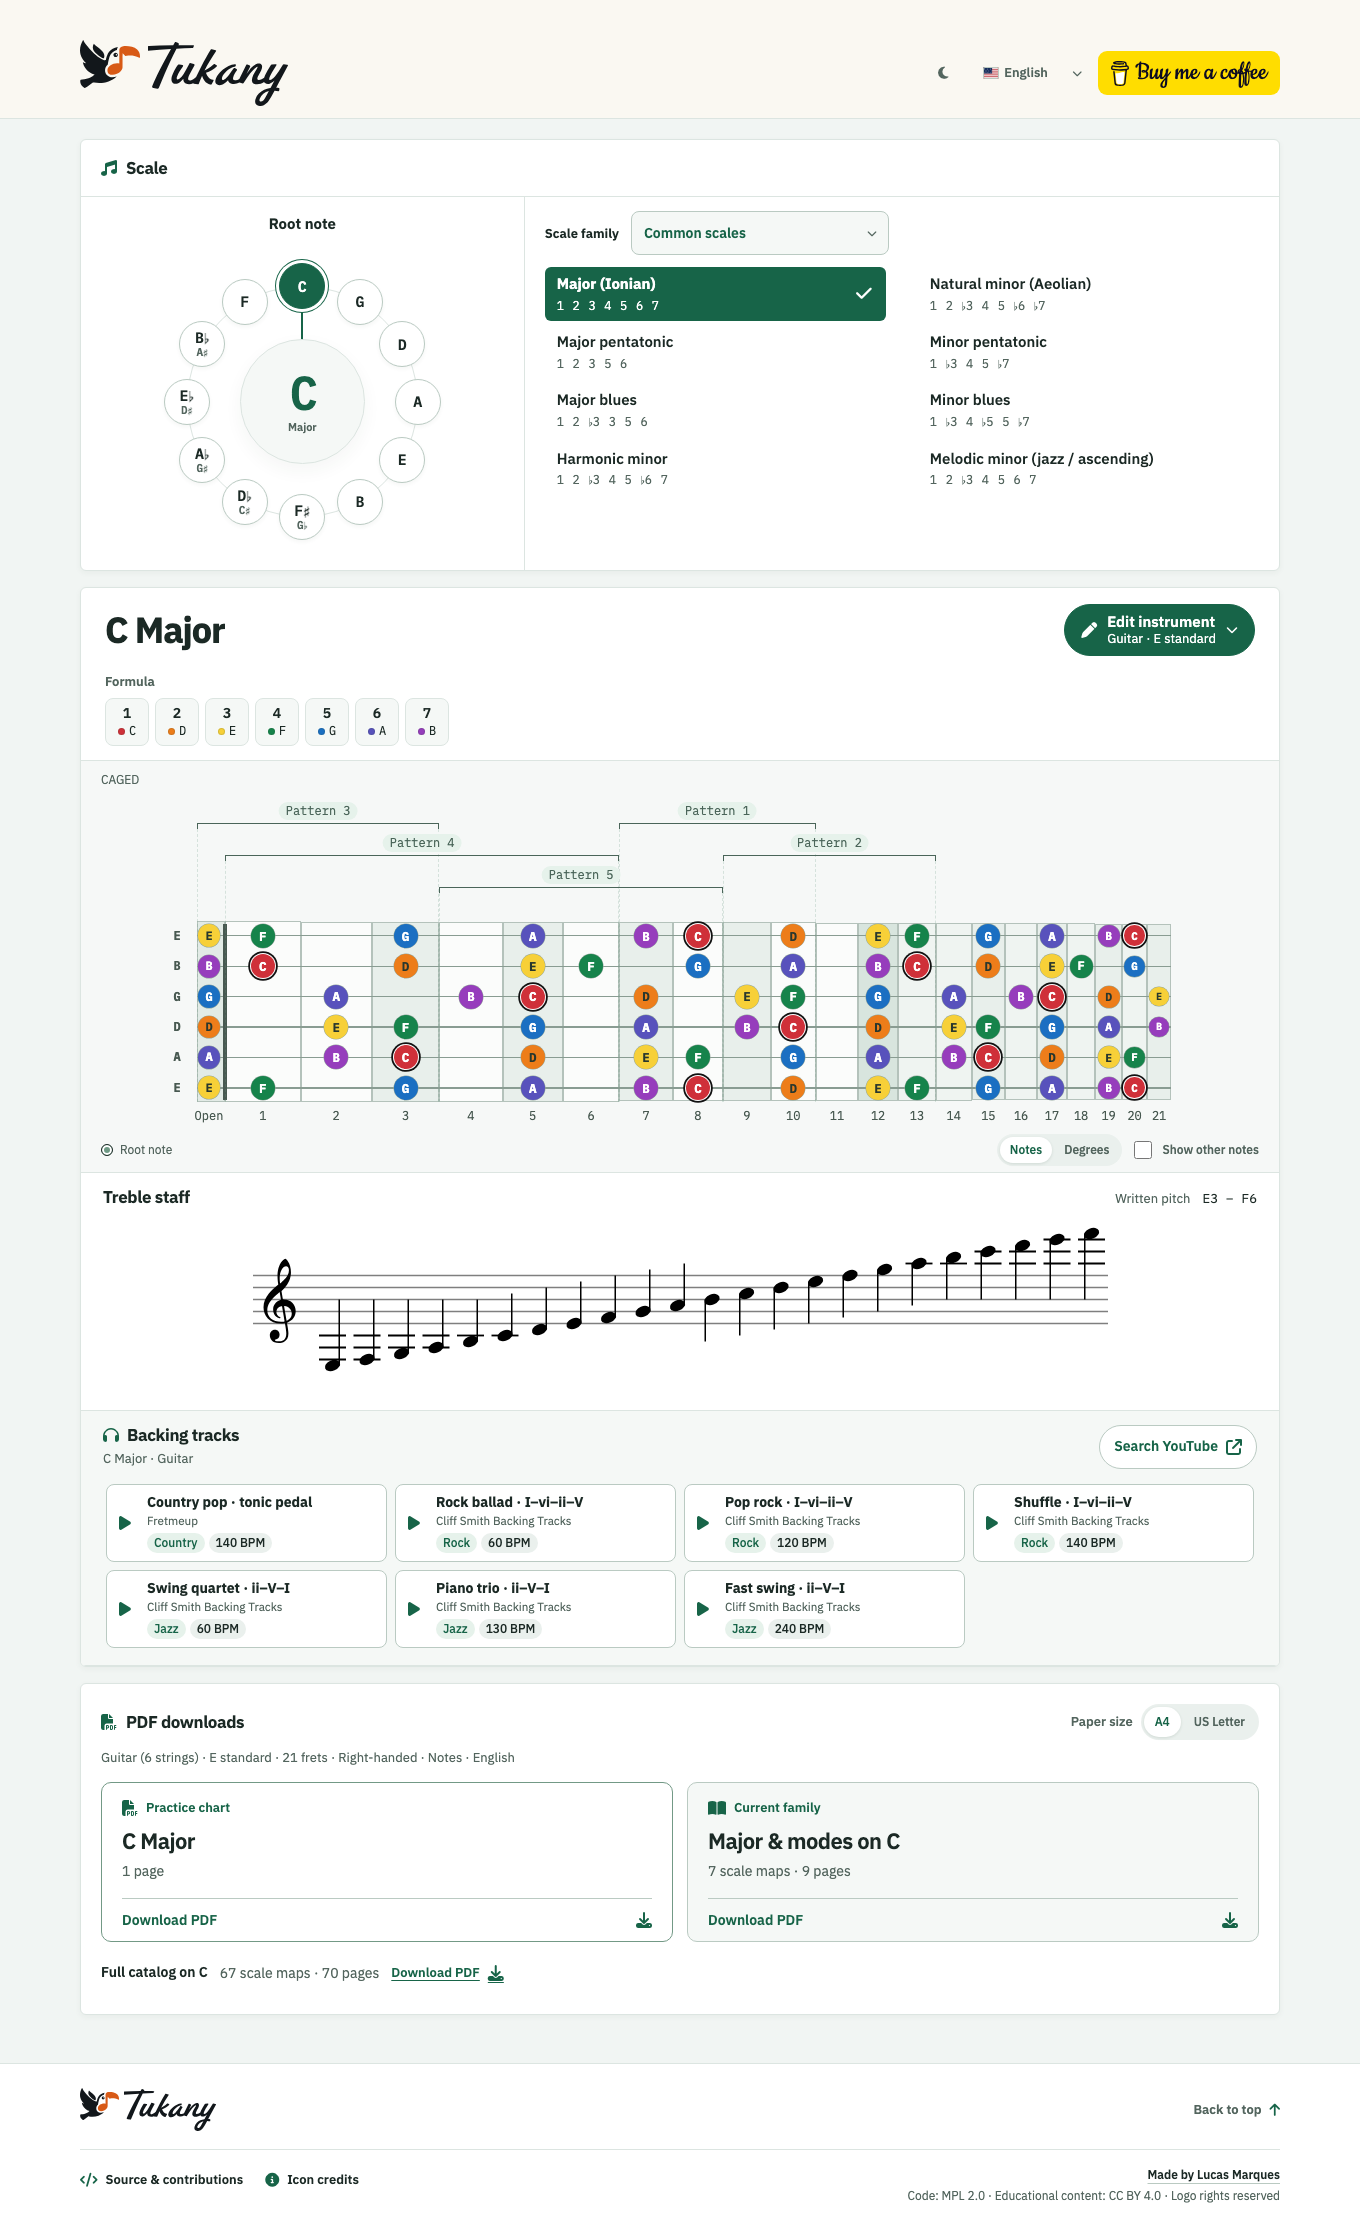
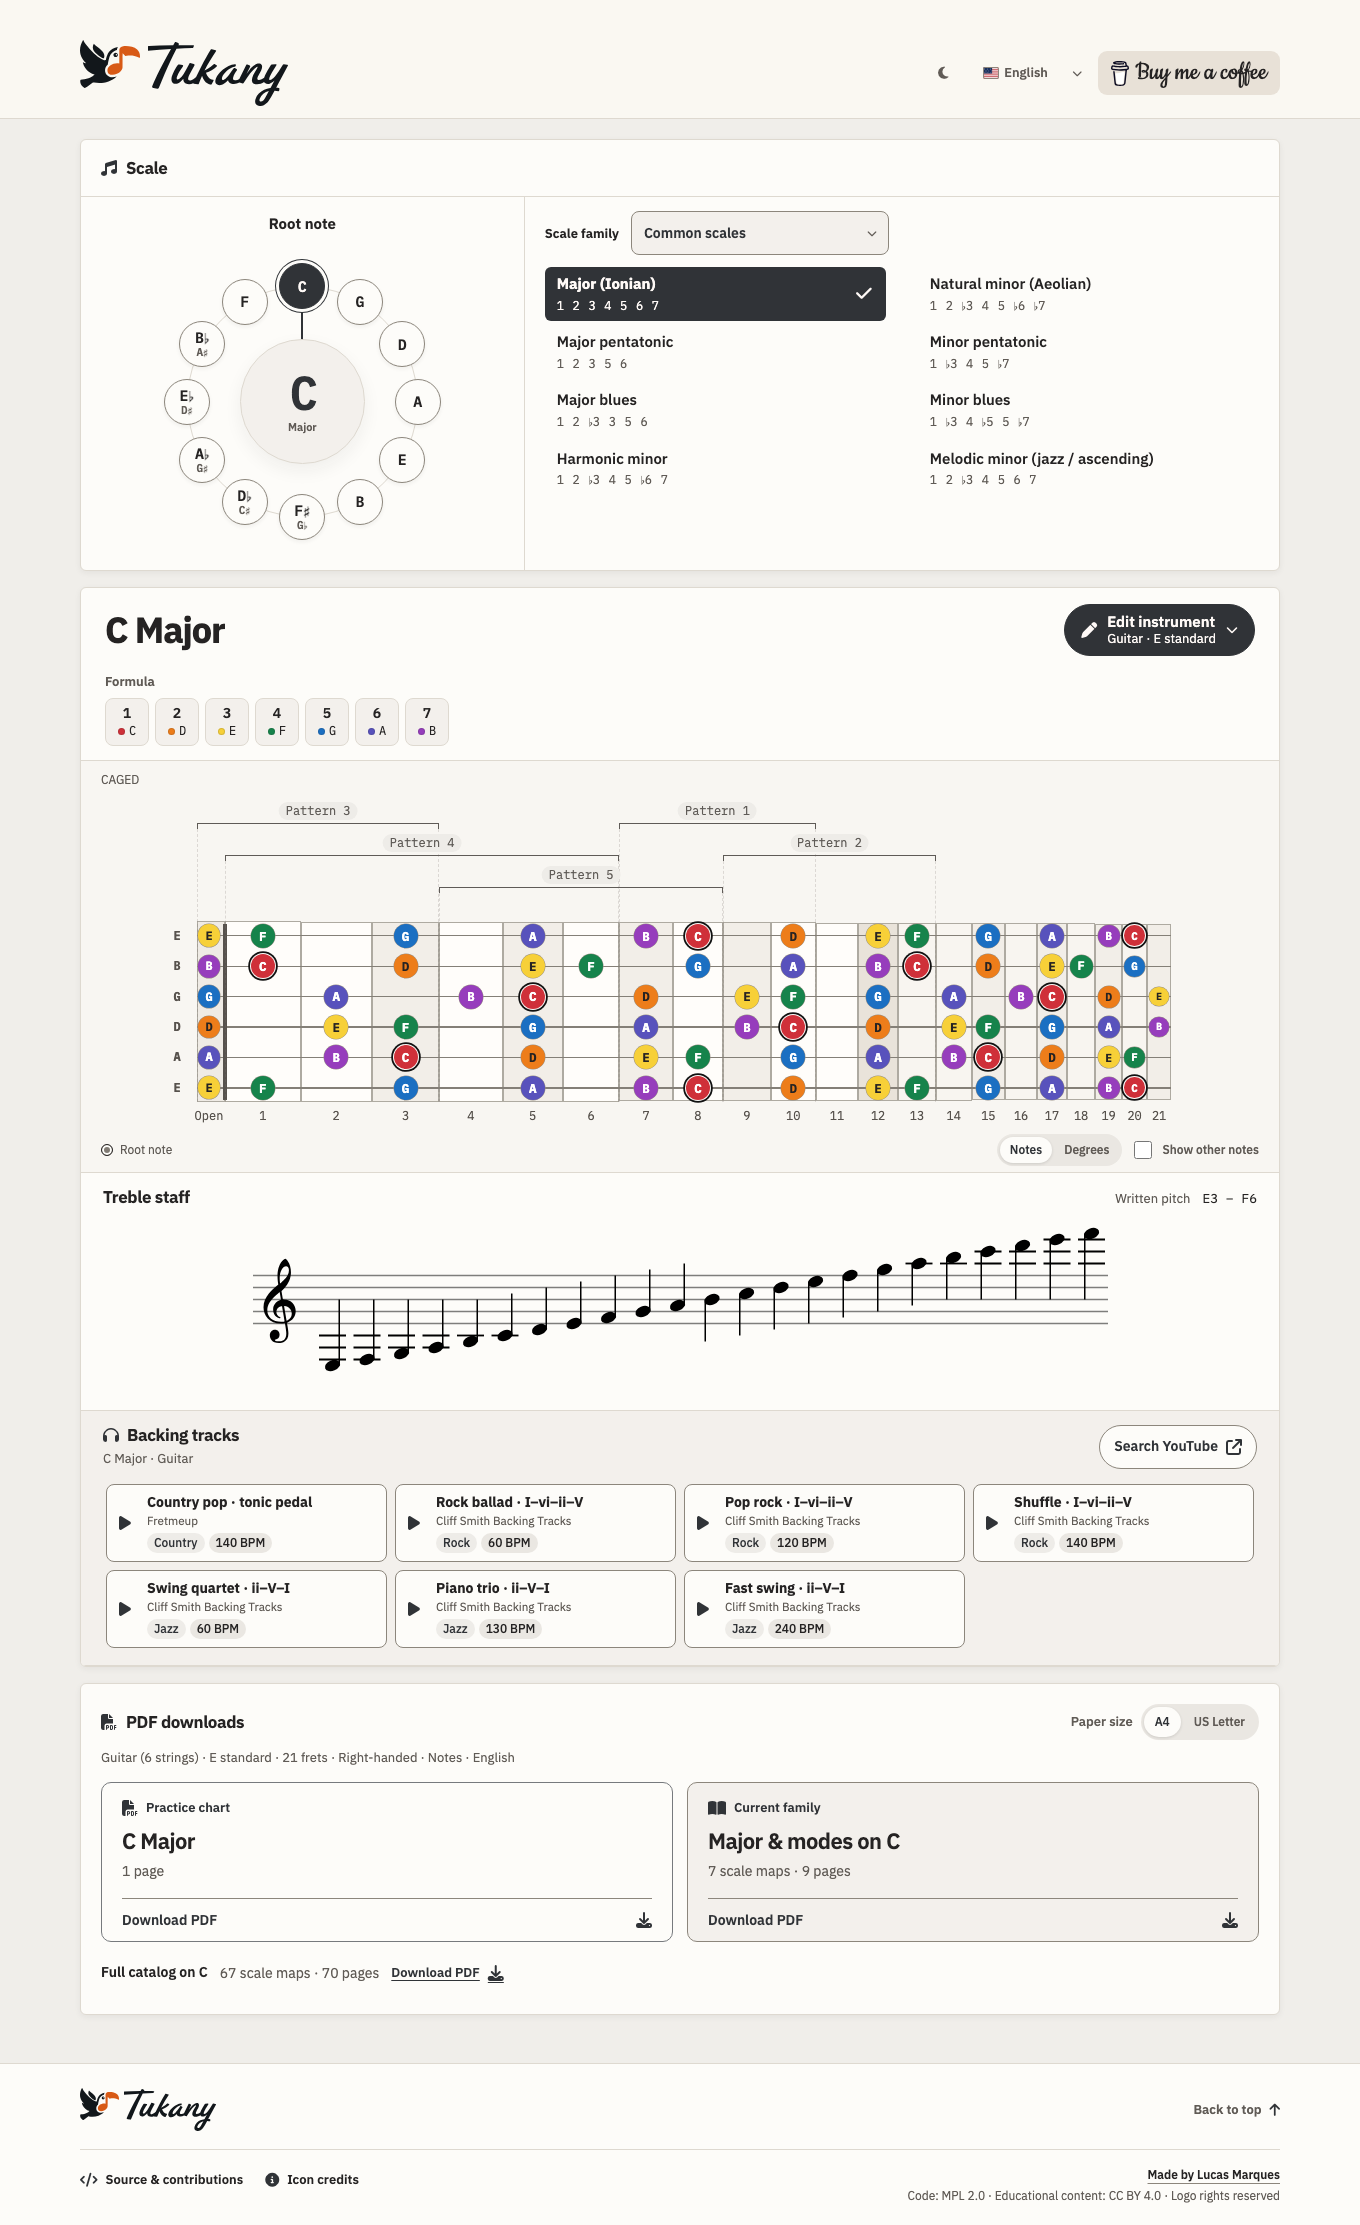
Refine the light and dark site palettes

diff --git a/public/styles.css b/public/styles.css
@@ -125,54 +125,54 @@
 }
 :root {
   --brand-cream: #faf8f2;
-  --ink: #1b2925;
-  --muted: #53655e;
-  --paper: #fff;
-  --rule: #dce5e1;
-  --pale: #e6f2eb;
-  --accent: #176448;
+  --ink: #252323;
+  --muted: #605b56;
+  --paper: #fdfcf9;
+  --rule: #ded9d0;
+  --pale: #eeece8;
+  --accent: #303337;
   --background: #f0eeea;
   --header-background: var(--brand-cream);
-  --control-border: #bacac2;
-  --hover-border: #739986;
-  --accent-solid: #176448;
-  --accent-hover: #104e39;
-  --accent-contrast: #fff;
-  --focus: #2f8a68;
-  --error: #9b3030;
-  --segmented: #eaf0ed;
-  --subtle: #f5f8f6;
-  --diagram: #f6f8f7;
-  --tone-selected: #e0efe6;
-  --shadow: #203e3120;
-  --shadow-soft: #203e310c;
-  --scroll-thumb: #a6c0b2;
-  --sounding-background: #21483b;
-  --sounding-ink: #fff;
-  --note-selected: #a16207;
-  --note-playing: #176448;
-  --board-open: #e2ebe6;
-  --board-octave: #d8e5de;
-  --board-marker: #e8efeb;
-  --board-upper: #eff4f1;
-  --board-lower: #fbfcfb;
-  --board-grid: #b4c2bb;
-  --board-string: #899c92;
-  --board-ink: #485951;
-  --board-muted-fill: #d4ded9;
-  --board-muted-ink: #53665c;
+  --control-border: #8c867c;
+  --hover-border: #777a7e;
+  --accent-solid: var(--accent);
+  --accent-hover: #222529;
+  --accent-contrast: #fffaf7;
+  --focus: #63666b;
+  --error: #a1262b;
+  --segmented: #eae7e2;
+  --subtle: #f3f0ec;
+  --diagram: #f8f6f2;
+  --tone-selected: #e8e4dd;
+  --shadow: #25232324;
+  --shadow-soft: #2523230f;
+  --scroll-thumb: #a39793;
+  --sounding-background: var(--accent-hover);
+  --sounding-ink: var(--accent-contrast);
+  --note-selected: #91602d;
+  --note-playing: var(--accent);
+  --board-open: #efebe5;
+  --board-octave: #e9e3da;
+  --board-marker: #f2eee8;
+  --board-upper: #f8f5f0;
+  --board-lower: #fffdfa;
+  --board-grid: #aeaaa1;
+  --board-string: #847f77;
+  --board-ink: #57524d;
+  --board-muted-fill: #ddd8d1;
+  --board-muted-ink: #605a53;
   --muted-note-opacity: 0.6;
   --board-root-ink: #111111;
-  --board-root-muted: #84988f;
-  --board-root-halo: #ffffff;
-  --board-note-rim: #92a69b;
-  --note-ink: #28372e;
+  --board-root-muted: #868078;
+  --board-root-halo: var(--paper);
+  --board-note-rim: #978f84;
+  --note-ink: var(--ink);
   --pitch-accidental: #fff;
   --accidental-rim: #000;
   --staff-ink: #000;
-  --pattern-ink: #4a6559;
+  --pattern-ink: #5f5b57;
   --pattern-active: var(--accent);
-  --pattern-guide: #6f9a85;
+  --pattern-guide: #817b74;
   --type: 'IBM Plex Sans', 'Tukany Accidentals', system-ui, sans-serif;
   --mono: 'IBM Plex Mono', 'Tukany Accidentals', ui-monospace, Menlo, Consolas, monospace;
   --pill-radius: 9999px;
@@ -181,46 +181,43 @@
   color-scheme: light;
 }
 :root[data-theme='dark'] {
-  --ink: #e6eeea;
-  --muted: #b6c5bf;
-  --paper: #323e3a;
-  --rule: #4b5953;
-  --pale: #40564c;
-  --accent: #a1d9bd;
-  --background: #28332f;
+  --ink: #f0ece6;
+  --muted: #c7c2ba;
+  --paper: #29292c;
+  --rule: #454548;
+  --pale: #3b3a38;
+  --accent: #d9d2c7;
+  --background: #1d1d1f;
   --header-background: var(--paper);
-  --control-border: #64746c;
-  --hover-border: #8aaa99;
-  --accent-solid: #a1d9bd;
-  --accent-hover: #b7e5cd;
-  --accent-contrast: #20372a;
-  --focus: #b8ead1;
-  --error: #ffb4a8;
-  --segmented: #293630;
-  --subtle: #38453f;
-  --diagram: #303d37;
-  --tone-selected: #485f53;
-  --shadow: #16251d33;
-  --shadow-soft: #16251d1a;
-  --scroll-thumb: #718a7d;
-  --sounding-background: #b4e0c7;
-  --sounding-ink: #21372a;
-  --note-selected: #e7bf80;
-  --note-playing: #b8ead1;
-  --board-open: #485a4f;
-  --board-octave: #516256;
-  --board-marker: #425248;
-  --board-upper: #39483f;
-  --board-lower: #354239;
-  --board-grid: #627368;
-  --board-string: #8e9e93;
-  --board-ink: #d1ddd4;
-  --board-muted-fill: #536158;
-  --board-muted-ink: #cbd6ce;
-  --board-root-ink: #192620;
-  --board-root-muted: #88998f;
-  --board-root-halo: #e0ebe4;
-  --board-note-rim: #344138;
+  --control-border: #85837f;
+  --hover-border: #9b9387;
+  --accent-hover: #e7e0d5;
+  --accent-contrast: #222124;
+  --focus: var(--accent);
+  --error: #ffb8a9;
+  --segmented: #232325;
+  --subtle: #333336;
+  --diagram: #242426;
+  --tone-selected: #44423e;
+  --shadow: #14141644;
+  --shadow-soft: #14141626;
+  --scroll-thumb: #8d867c;
+  --note-selected: #efb49c;
+  --note-playing: var(--accent);
+  --board-open: #3e3d3c;
+  --board-octave: #4a4744;
+  --board-marker: #393837;
+  --board-upper: #333233;
+  --board-lower: #2c2c2e;
+  --board-grid: #646264;
+  --board-string: #96938d;
+  --board-ink: #e1dcd5;
+  --board-muted-fill: #4b4948;
+  --board-muted-ink: #d0cbc4;
+  --board-root-ink: var(--accent-contrast);
+  --board-root-muted: #96928b;
+  --board-root-halo: #e9e4dc;
+  --board-note-rim: #3b3939;
   --pitch-0: #e8a09e;
   --pitch-2: #edb58d;
   --pitch-4: #dfd28d;
@@ -228,12 +225,12 @@
   --pitch-7: #90c8d1;
   --pitch-9: #a7b8df;
   --pitch-11: #ccb1d9;
-  --pitch-accidental: #e4eae7;
-  --pitch-label-ink: #202d29;
-  --accidental-rim: #23312b;
+  --pitch-accidental: #eeeae4;
+  --pitch-label-ink: var(--accent-contrast);
+  --accidental-rim: var(--accent-contrast);
   --staff-ink: var(--ink);
-  --pattern-ink: #bdcfc3;
-  --pattern-guide: #93af9b;
+  --pattern-ink: #c3bbaf;
+  --pattern-guide: #aba297;
   color-scheme: dark;
 }
 * {
@@ -495,8 +492,8 @@ main,
   gap: 7px;
   min-width: 0;
   padding: 4px 13px;
-  background: #ffdd00;
-  color: #0d0c22;
+  background: #e8e1d7;
+  color: #252323;
   font:
     28px/1 'Cookie',
     var(--type);
@@ -511,7 +508,7 @@ main,
   height: 25px;
 }
 .coffee-link:hover {
-  background: #f1d100;
+  background: #ddd4c8;
 }
 #theme-toggle {
   flex: none;
@@ -1840,7 +1837,7 @@ input[aria-invalid='true'] {
   width: 7px;
   height: 7px;
   border-radius: 100%;
-  box-shadow: inset 0 0 0 1px #273c2929;
+  box-shadow: inset 0 0 0 1px #25232329;
 }
 .color-dot.accidental-pitch {
   box-shadow: inset 0 0 0 1px var(--accidental-rim);

diff --git a/public/theme.js b/public/theme.js
@@ -17,7 +17,7 @@
     root.style.colorScheme = preference;
     document
       .querySelector('meta[name="theme-color"]')
-      ?.setAttribute('content', preference === 'dark' ? '#323e3a' : '#ffffff');
+      ?.setAttribute('content', preference === 'dark' ? '#29292c' : '#ffffff');
     window.dispatchEvent(new Event('themechange'));
   };
   window.tukanyTheme = Object.freeze({

diff --git a/docs/design.md b/docs/design.md
@@ -93,10 +93,12 @@ selected language. Light is the default in
 every operating-system theme. Choosing Dark keeps it active on future visits until
 the player switches back to Light.
 
-Both themes use the same layout, typography, and component shapes. Dark mode uses
-muted green-gray surfaces, lighter text, and a matching set of pitch colors.
-Changing the palette preserves the player’s position, selection, and audio.
-Printable references use a separate light palette.
+Both themes use IBM Plex Sans for headings and interface copy, and IBM Plex Mono
+for diagram labels. Light mode pairs charcoal controls with off-white panels
+and fretboards. Dark mode uses warm stone controls against charcoal.
+Each natural pitch has a distinct color in both themes. Changing the palette
+preserves the player’s position, selection, and audio. Printable references
+use a separate light palette.
 
 Motion is brief feedback for selection, button activation, and sounding notes.
 It does not stretch or move the neck. Reduced-motion preferences disable those
